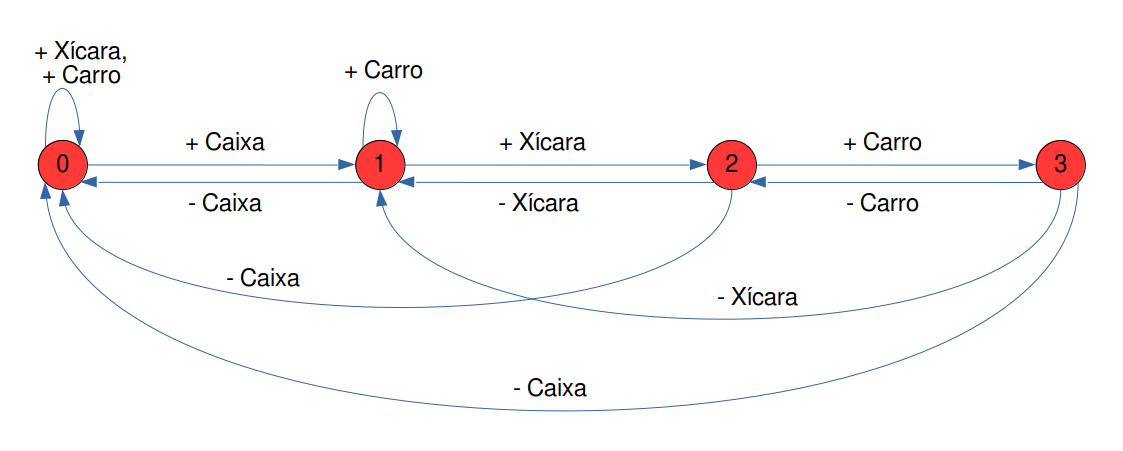
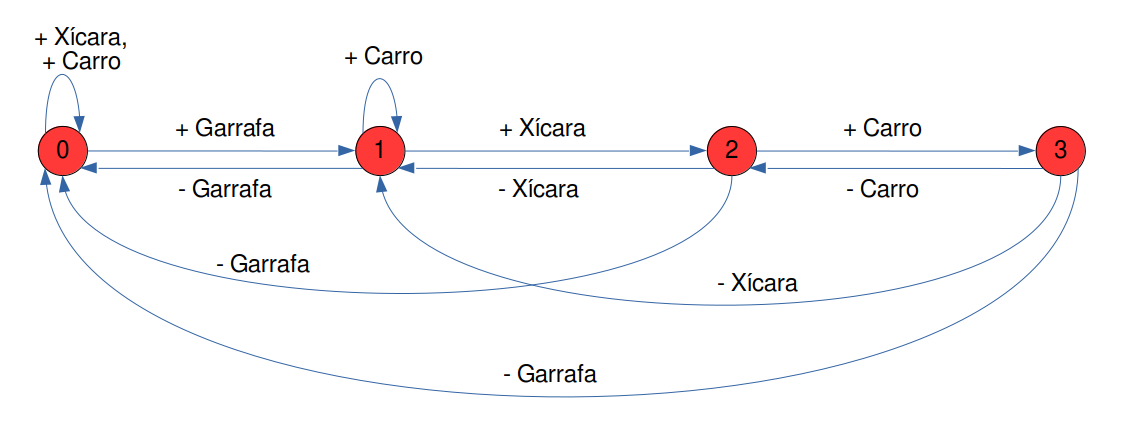
:wrench: Atualizacao da tarefa do projeto

diff --git a/projeto/README.md b/projeto/README.md
@@ -8,9 +8,9 @@ Contém os códigos, datasets, modelos, arquivos de pesos, arquivos de configura
 
 #### Tarefa do projeto
 
-1. Colocar uma caixa pequena (ex.: de remédio)
-2. Colocar uma xícara
-3. Colocar um carrinho de brinquedo
+1. Posicionar uma garrafa
+2. Posicionar uma xícara
+3. Posicionar um carrinho de brinquedo
 
 ###### FSM da tarefa
 
